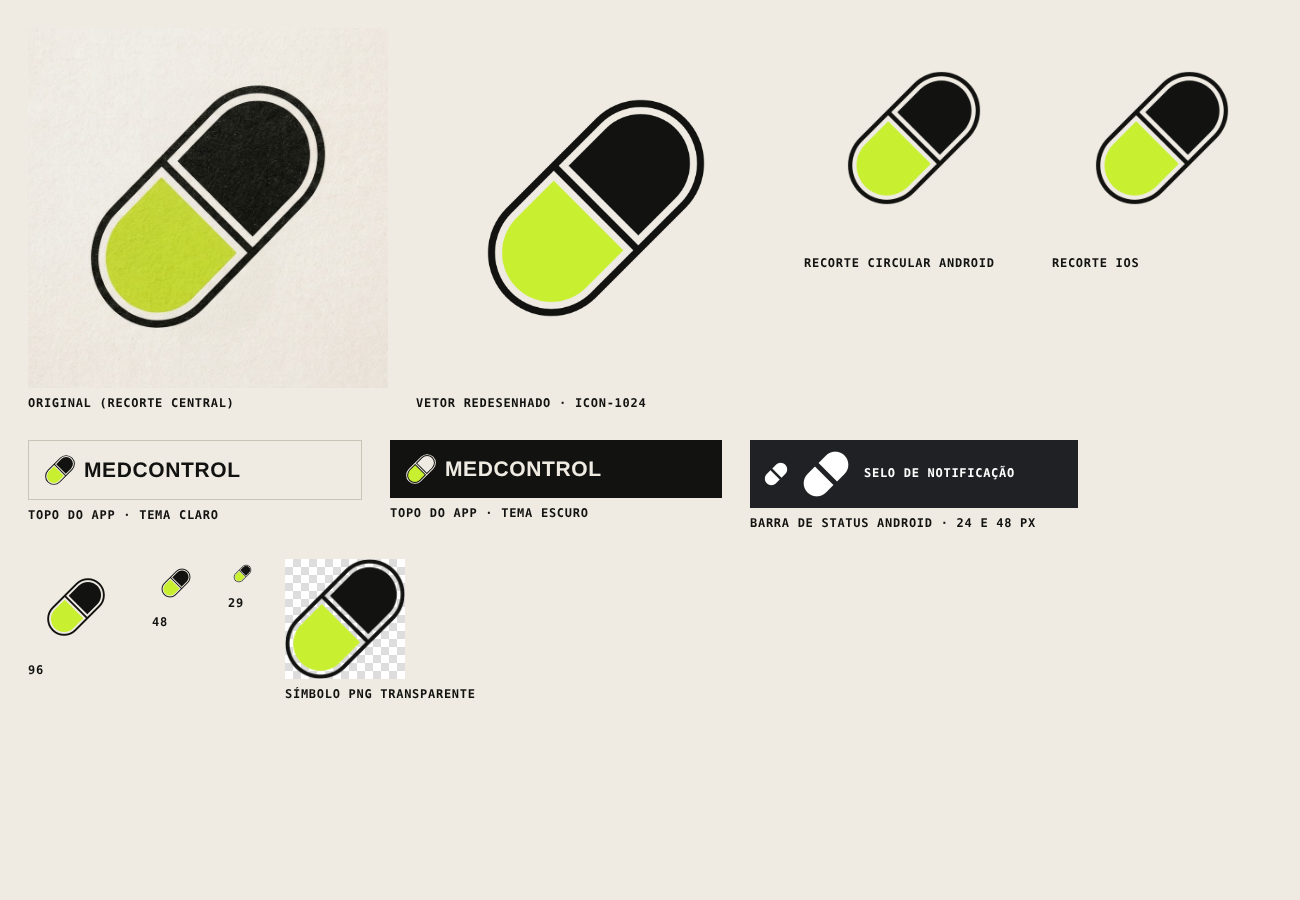
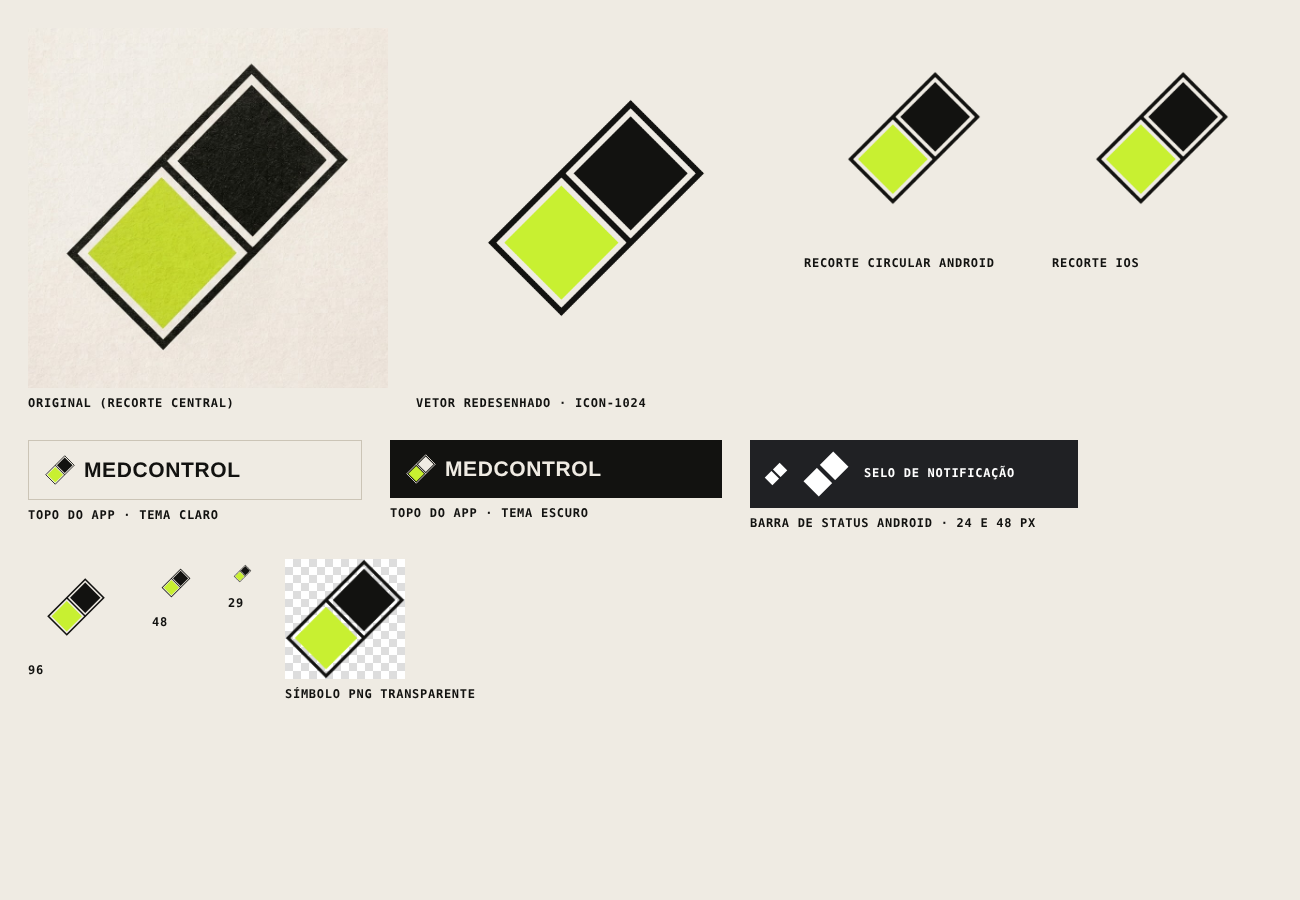
Troca a marca pela versão de cantos retos
Nova arte da mesa (bloco diagonal com duas metades quadradas),
vetorizada com as mesmas proporções e reexportada em todos os
tamanhos. O briefing descreve a nova forma.

Claude-Session: https://claude.ai/code/session_01YMQSkjFRj29WxL1kijPQNu

diff --git a/docs/redesign/BRIEFING.md b/docs/redesign/BRIEFING.md
@@ -204,9 +204,11 @@ Os botões de ícone são quadrados de 38–44px, com borda de 1px em
 
 ### 3.6 Marca
 
-A arte final está em `docs/redesign/marca/`. É a cápsula diagonal com
-contorno de tinta, metade lima e metade tinta, separadas por um divisor.
-Ela substitui o símbolo de dois retângulos da maquete.
+A arte final está em `docs/redesign/marca/`. É um bloco diagonal (45°)
+de cantos retos, com contorno de tinta, duas metades quadradas (lima e
+tinta) e um divisor. Contorno, folgas e divisor têm a mesma espessura.
+Na maquete, o símbolo era a versão horizontal desse mesmo conceito; vale
+a versão diagonal daqui.
 
 `original-gerado.jpg` é a imagem gerada pela mesa. Os demais arquivos são
 o redesenho em vetor dela (`comparacao.png` mostra os dois lado a lado).
